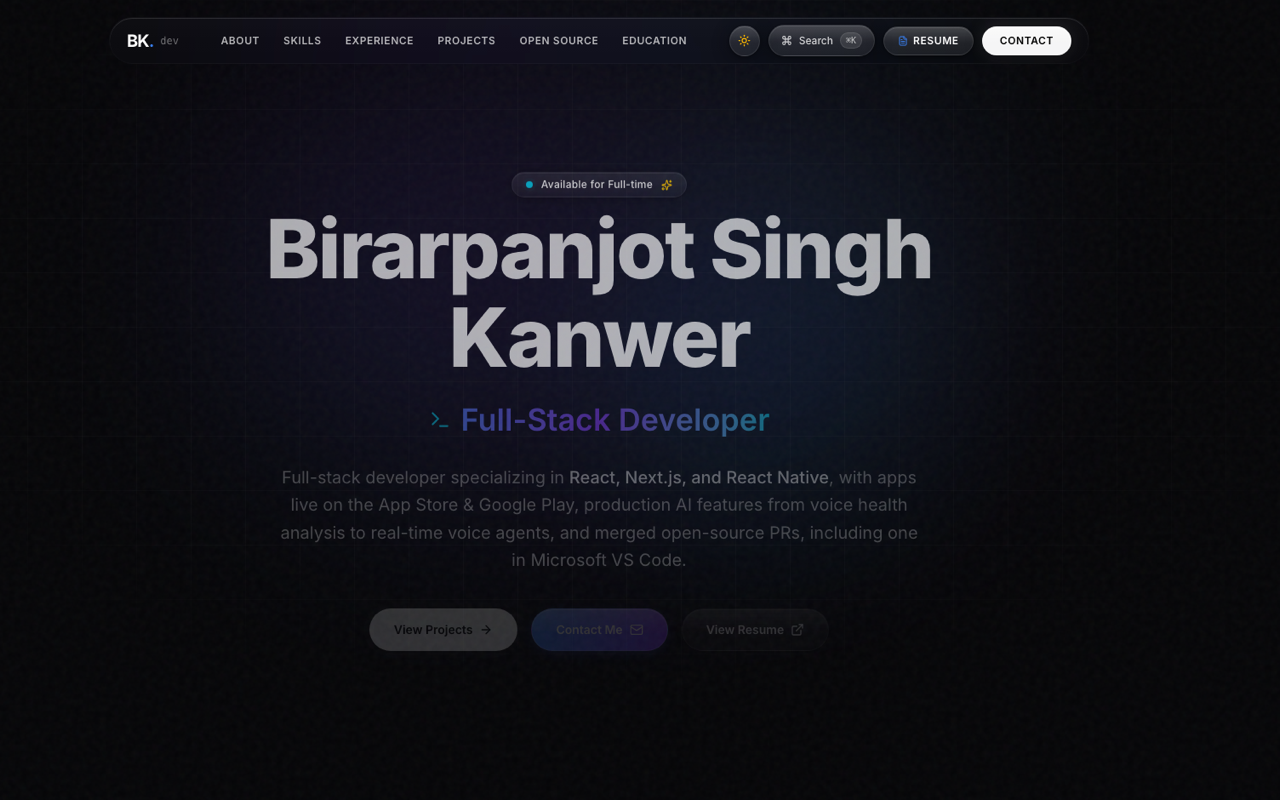
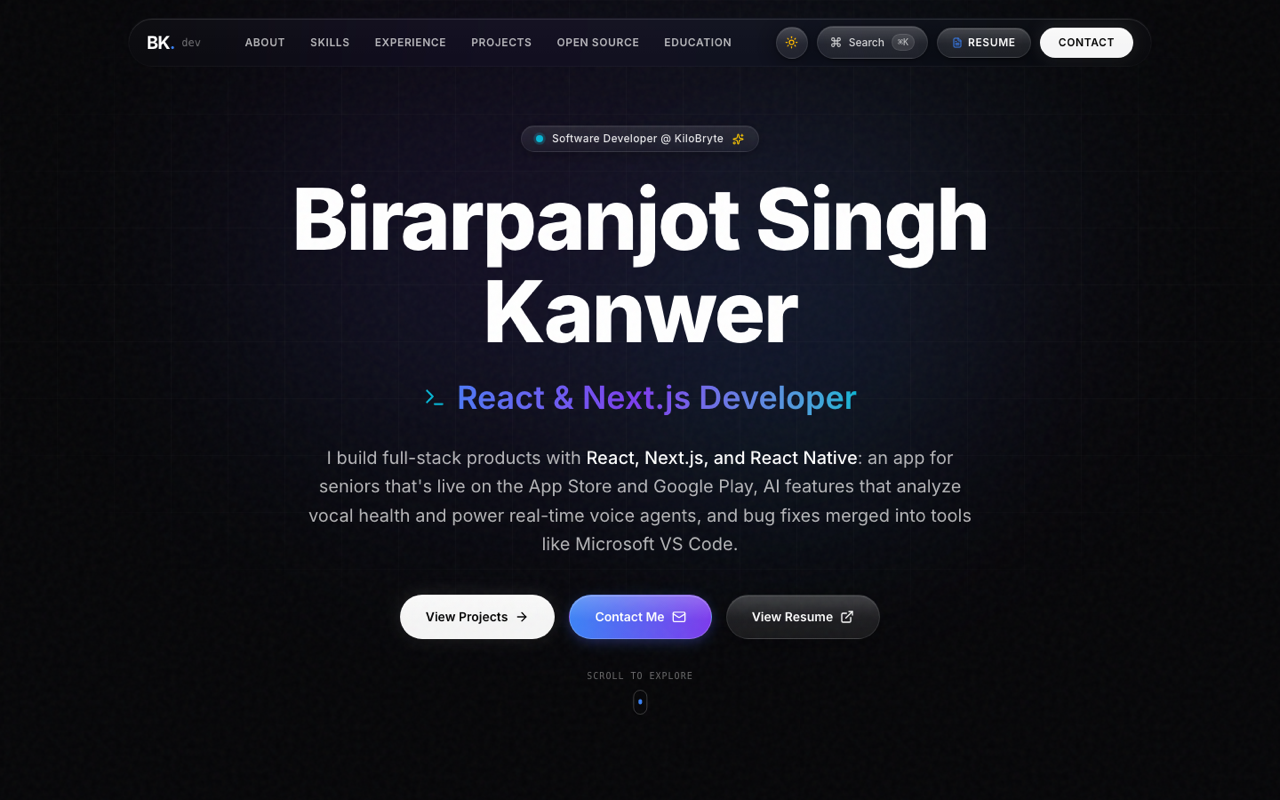
content: fuller descriptions instead of terse resume lines
The resume stays the source of truth for facts, but its one-page wording
was too terse for the site.
- Experience: restore detailed bullets for Evertz, Sheridan and Eduwings;
  expand KiloBryte with product context
- Projects: Paige and Skillkoo described from their store listings;
  GigJet detail restored from the earlier site (minus invented metrics)
- Open Source: explain each bug and fix, from the PR descriptions
- Hero blurb rewritten in fuller prose; fresh Portfolio screenshot

Changed region(s): [[0.1875, 0.1562, 0.7812, 0.8125], [0.0938, 0.0312, 0.9062, 0.0938]]

diff --git a/components/Projects.tsx b/components/Projects.tsx
@@ -45,18 +45,19 @@ const projects: Project[] = [
   {
     id: 'paige-connect',
     title: 'Paige Connect',
-    subtitle: 'Paige™ App for Seniors (KiloBryte)',
+    subtitle: 'One-Touch Video Calling for Seniors (KiloBryte)',
     tags: ['React Native', 'Expo', 'Next.js', 'Node.js', 'Firebase', 'Native Video Bridging'],
-    description: 'The Paige™ app for seniors, which I build and maintain at KiloBryte with React Native, Next.js, Node.js, Firebase, Expo, and native video bridging. Live on the App Store and Google Play.',
+    description: 'Paige keeps aging family members in touch through a one-touch video-calling frame. Paige Connect is its companion app: family members and frame admins use it to set up the frame, manage who can call it, and make and receive calls. I build and maintain it at KiloBryte.',
     badge: 'Live on App Store & Google Play',
     image: '/projects/paigeconnect.png',
     appStoreUrl: 'https://apps.apple.com/ca/app/paige-connect/id6744338186',
     playStoreUrl: 'https://play.google.com/store/apps/details?id=com.kilobryte.paigecompanion&hl=en_CA',
-    overview: "Paige™ is KiloBryte's app for seniors. I build and maintain it across iOS and Android, and I extended the platform with Amplifier Health's voice AI to analyze vocal health signals.",
+    overview: "Paige™ is KiloBryte's platform for keeping seniors connected with family. Beyond the app itself, I added voice AI: recordings are analyzed with Amplifier Health's models to surface vocal health signals and how they change over time.",
     architecture: "React Native (Expo) mobile client with native video bridging, backed by Node.js and Firebase. A Next.js layer integrates Amplifier Health's Apex voice AI model and Longitudinal API, and an automated cron-job pipeline submits recordings for analysis and feeds a results dashboard.",
     features: [
-      'Cross-platform app for seniors on iOS and Android',
-      'Native video bridging',
+      'Companion app for the Paige one-touch video-calling frame, on iOS and Android',
+      'Frame setup, plus inviting and managing the contacts who can call the frame',
+      'Native video bridging for calls',
       "Amplifier Health's Apex voice AI model integrated into Next.js to analyze vocal health signals",
       'Automated cron-job pipeline that submits recordings for analysis, plus a results dashboard',
       "Amplifier Health's Longitudinal API for per-user deltas and vocal health trends over time"
@@ -73,17 +74,18 @@ const projects: Project[] = [
     title: 'Skillkoo / Eduwings',
     subtitle: 'Education Platform with AI Career-Counseling Voice Agents',
     tags: ['React Native', 'Expo', 'Express.js', 'AWS S3', 'ElevenLabs Agents', 'Eleven v3 Conversational'],
-    description: 'An education platform shipped on iOS, Android, and the web, with student profiles, document uploads, and real-time AI career-counseling voice agents.',
+    description: 'An education platform on iOS, Android, and the web that helps students plan their careers and studies. Students build a profile, upload documents securely, get guidance on countries and programs for studying abroad, and talk through their options with real-time AI career-counseling voice agents.',
     badge: 'Live on iOS, Android & Web',
     image: '/projects/skillkoo.png',
     appStoreUrl: 'https://apps.apple.com/us/app/skillkoo/id6761086381',
     playStoreUrl: 'https://play.google.com/store/apps/details?id=com.eduwings.global&hl=en_CA',
     websiteUrl: 'https://www.learn.skillkoo.com/',
-    overview: 'Skillkoo is an education platform available on iOS, Android, and the web. Students build profiles, upload documents, and talk with real-time AI career-counseling voice agents.',
+    overview: 'Skillkoo helps students discover skills and plan their future, from building a profile to choosing where and what to study. Its career counselors are AI voice agents that students can talk to in real time.',
     architecture: 'React Native (Expo) mobile clients, an Express.js backend, and AWS S3 storage. The real-time career-counseling voice agents are built with ElevenLabs Agents, powered by Eleven v3 Conversational.',
     features: [
       'Shipped on iOS, Android, and the web',
-      'Student profiles and document uploads',
+      'Student profiles and secure document uploads',
+      'Study-abroad guidance on countries and programs',
       'Real-time AI career-counseling voice agents built with ElevenLabs Agents',
       'Voice agents powered by Eleven v3 Conversational'
     ],
@@ -97,21 +99,22 @@ const projects: Project[] = [
   {
     id: 'gigjet',
     title: 'GigJet',
-    subtitle: 'Service Marketplace with Real-Time Chat',
-    tags: ['React Native', 'Node.js'],
-    description: 'A full-stack mobile app with chat and job postings, connecting service seekers and providers.',
+    subtitle: 'On-Demand Service Marketplace with Real-Time Chat',
+    tags: ['React Native', 'Expo', 'Node.js', 'Express', 'Firebase', 'REST API'],
+    description: 'A full-stack mobile marketplace that connects people who need local services with the providers who offer them. Seekers post jobs with a location, providers respond with quotes, and both sides work it out through real-time in-app chat.',
     award: 'Awarded "Best Innovation 2024" (1st of 40+)',
     image: '/projects/gigjet.png',
     youtubeUrl: 'https://youtu.be/M1adKEKeFLo',
     demoUrl: 'https://youtu.be/M1adKEKeFLo',
     figmaUrl: 'https://www.figma.com/design/czmfCp4NJjOQn1y6MknLjz/Capstone?node-id=0-1&t=mgfBlIu44I6F7Afq-1',
-    overview: 'GigJet connects people looking for services with the providers who offer them. Seekers post jobs, and both sides talk through built-in chat.',
-    architecture: 'React Native mobile client backed by a Node.js server, covering job postings and in-app chat between service seekers and providers. Designed in Figma.',
+    overview: 'GigJet is a gig-economy app built to take the friction out of hiring local trades and specialists. The mobile app is built in React Native and talks to a Node.js/Express API, with Firebase handling real-time sync.',
+    architecture: 'React Native (Expo) client backed by a Node.js/Express REST API with modular controllers and JWT authentication. Firebase Firestore listeners power the real-time chat, and uploaded portfolio images go to cloud object storage. The UI was designed in Figma before development.',
     features: [
-      'Job postings from service seekers',
-      'In-app chat between seekers and providers',
-      'Full-stack mobile app built with React Native and Node.js',
-      'UI designed in Figma'
+      'Real-time chat between seekers and providers, with attachments',
+      'Job postings with location and proximity filtering',
+      'Provider quotes with push notifications',
+      'Ratings, reviews, and provider verification badges',
+      'Responsive UI for iOS and Android, designed in Figma'
     ],
     results: 'Won "Best Innovation 2024" at Sheridan College, ranking 1st among 40+ teams.',
     metrics: [

diff --git a/components/Experience.tsx b/components/Experience.tsx
@@ -23,10 +23,11 @@ const experiences: ExperienceItem[] = [
     badge: 'Current Role',
     stack: ['React Native', 'Next.js', 'Node.js', 'Firebase', 'Expo', 'Native Video Bridging', 'Apex Voice AI', 'Cron Jobs'],
     bullets: [
-      'Build and maintain the Paige™ app for seniors with React Native, Next.js, Node.js, Firebase, Expo, and native video bridging; live on the App Store and Play Store.',
-      "Integrated Amplifier Health's Apex voice AI model into Next.js to analyze vocal health signals.",
-      'Built an automated cron-job pipeline that submits recordings for analysis, plus a dashboard for results.',
-      "Integrated Amplifier Health's Longitudinal API to surface per-user deltas and vocal health trends over time."
+      'Build and maintain the Paige™ app, which keeps seniors in touch with family through one-touch video calls, using React Native, Expo, Next.js, Node.js, and Firebase. It is live on the App Store and Google Play.',
+      "Work on the native video bridging behind Paige's calls on iOS and Android.",
+      "Integrated Amplifier Health's Apex voice AI model into our Next.js app to analyze vocal health signals from recordings.",
+      'Built an automated cron-job pipeline that submits new recordings for analysis on a schedule, plus a dashboard for reviewing the results.',
+      "Integrated Amplifier Health's Longitudinal API so each user's vocal health shows as a trend over time, with per-user deltas, rather than one-off readings."
     ],
     links: [
       { label: 'App Store', url: 'https://apps.apple.com/ca/app/paige-connect/id6744338186' },
@@ -39,10 +40,11 @@ const experiences: ExperienceItem[] = [
     location: 'Burlington, ON, Canada',
     date: 'May 2024 – Aug 2024',
     badge: 'QA Automation',
-    stack: ['Selenium', 'Test Automation', 'Regression Testing', 'IoT'],
+    stack: ['Selenium WebDriver', 'Java', 'Python', 'Regression Testing', 'CI/CD', 'IoT'],
     bullets: [
-      'Automated 50+ Selenium tests, reducing regression testing time by 25% and enabling faster releases.',
-      'Collaborated across teams to improve Smart Garden, an IoT plant-monitoring app.'
+      "Automated 50+ Selenium end-to-end tests for Evertz's enterprise broadcast hardware and its web dashboards.",
+      'Cut regression testing time by 25%, which sped up the release cadence for firmware builds.',
+      'Worked with hardware and software teams to improve Smart Garden, an IoT plant-monitoring app, and validate it under live operating conditions.'
     ],
     links: [
       { label: 'Smart Garden', url: 'https://github.com/Evertz-Garden/SmartGarden/tree/WebUIChange' }
@@ -54,9 +56,11 @@ const experiences: ExperienceItem[] = [
     location: 'Oakville, ON, Canada',
     date: 'Jan–Apr 2023 · Sep–Dec 2023',
     badge: 'Academic Mentorship',
-    stack: ['Spring Boot', 'AngularJS', 'Django', 'Mentoring'],
+    stack: ['Spring Boot', 'Java', 'AngularJS', 'Django', 'Data Structures & Algorithms', 'SQL'],
     bullets: [
-      'Mentored 125+ students in programming and frameworks such as Spring Boot, AngularJS, and Django.'
+      'Mentored 125+ computer science students across two terms in programming fundamentals and frameworks including Spring Boot, AngularJS, and Django.',
+      'Ran weekly hands-on code reviews and debugging sessions covering Spring Boot REST APIs, Django MVC, and relational schema normalization.',
+      'Wrote supplementary coding problem sets and architecture cheat sheets for students in advanced programming courses.'
     ],
     links: []
   },
@@ -66,9 +70,11 @@ const experiences: ExperienceItem[] = [
     location: 'Ludhiana, Punjab, India',
     date: 'Apr 2021 – Nov 2021',
     badge: 'Mobile Engineering',
-    stack: ['Flutter', 'PHP', 'Firebase', 'Android'],
+    stack: ['Flutter', 'Dart', 'PHP', 'Firebase', 'REST APIs', 'Google Play Console'],
     bullets: [
-      'Built an Android app with Flutter, PHP, and Firebase, published on the Play Store.'
+      "Built and published Eduwings' Android ERP app on the Google Play Store, with a Flutter front end and PHP web services behind it.",
+      'Used Firebase for real-time data sync, user authentication, and push announcements to students.',
+      'Integrated payment gateways and a student document submission flow.'
     ],
     links: [
       { label: 'GitHub', url: 'https://github.com/arpankanwer/eduwings_global' },

diff --git a/components/OpenSource.tsx b/components/OpenSource.tsx
@@ -22,7 +22,7 @@ const contributions: Contribution[] = [
     prUrl: 'https://github.com/microsoft/vscode/pull/334129',
     status: 'Merged',
     date: 'Sep 2026',
-    summary: 'Fixed a Copilot Chat bug where an expired pasted image broke all later requests; added regression tests.'
+    summary: 'Once a pasted image expired, Copilot Chat got stuck: every later request failed with a 400 error, even text-only ones, and the chat kept auto-retrying the same broken payload. I stopped the retries for that error, replaced them with a clear message telling users to remove the image or start a new chat, and added regression tests.'
   },
   {
     project: 'OpenUsage',
@@ -32,7 +32,7 @@ const contributions: Contribution[] = [
     prUrl: 'https://github.com/robinebers/openusage/pull/1323',
     status: 'Co-authored',
     date: 'Sep 2026',
-    summary: 'Diagnosed why the OpenCode usage card stopped working after the OpenCode 2 upgrade (new session_message schema and credential table) in PR #1243; the fix was merged in #1323 with me as co-author.'
+    summary: "OpenUsage tracks spending across AI subscriptions. After the OpenCode 2 upgrade, its OpenCode card stopped reporting spend correctly and missed Go logins. In PR #1243 I traced it to OpenCode 2's new session_message table and credential store, and the maintainers merged the fix in #1323 with me as co-author."
   },
   {
     project: 'oh-my-opencode-slim',
@@ -42,7 +42,7 @@ const contributions: Contribution[] = [
     prUrl: 'https://github.com/alvinunreal/oh-my-opencode-slim/pull/1058',
     status: 'Merged',
     date: 'Aug 2026',
-    summary: 'Fixed plugin load failure on the OpenCode v2 beta with a dual-contract TUI module supporting v1 and v2.'
+    summary: 'oh-my-opencode-slim is a lean multi-agent suite for OpenCode. On the OpenCode v2 beta it failed to load at all, because v2 expects a different plugin shape. I shipped a dual-contract TUI module that works with both v1 and v2, with tests covering both.'
   }
 ];
 

diff --git a/components/Hero.tsx b/components/Hero.tsx
@@ -100,7 +100,7 @@ export default function Hero() {
           transition={{ duration: 0.8, ease: "easeOut", delay: 0.3 }}
           className="text-base sm:text-lg md:text-xl text-slate-600 dark:text-white/70 font-normal max-w-3xl mb-10 leading-relaxed"
         >
-          Full-stack developer specializing in <span className="text-slate-900 dark:text-white font-medium">React, Next.js, and React Native</span>, with apps live on the App Store & Google Play, production AI features from voice health analysis to real-time voice agents, and merged open-source PRs, including one in Microsoft VS Code.
+          I build full-stack products with <span className="text-slate-900 dark:text-white font-medium">React, Next.js, and React Native</span>: an app for seniors that's live on the App Store and Google Play, AI features that analyze vocal health and power real-time voice agents, and bug fixes merged into tools like Microsoft VS Code.
         </motion.p>
 
         {/* 3 Call-To-Action Buttons */}
